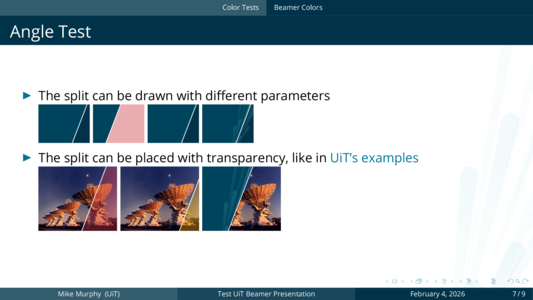
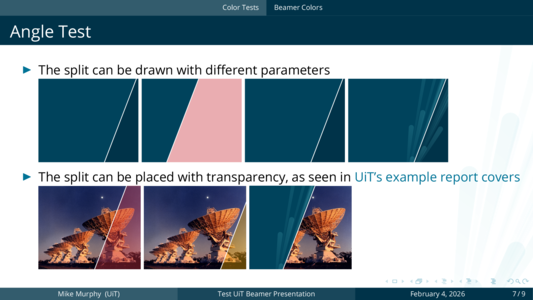
cleanup: Enlarge split examples, update URLs

diff --git a/uitbeamercontent.tex b/uitbeamercontent.tex
@@ -130,25 +130,27 @@
 
 \begin{frame}{Angle Test}
     \begin{itemize}
+        \def\ew{3cm}
+        \def\eh{2.5cm}
         \item The split can be drawn with different parameters
 
-            \tikz{\uitsplitbackground{0,0}{4em, 3em}}
+            \tikz{\uitsplitbackground{0,0}{\ew, \eh}}
             \tikz{\uitsplitbackground[
                     split pos = .25,
                     split right/.append style = {color=UitRed, opacity=.4},
-                ]{0,0}{4em, 3em}}
+                ]{0,0}{\ew, \eh}}
             \tikz{\uitsplitbackground[
                     opacity=.6,
                     line width = 1em,
-                ]{0,0}{4em, 3em}}
-            \tikz{\uitsplitbackground[split rays=true]{0,0}{4em, 3em}}
+                ]{0,0}{\ew, \eh}}
+            \tikz{\uitsplitbackground[split rays=true]{0,0}{\ew, \eh}}
 
-        \item The split can be placed with transparency, like in
-            \href{https://uit.no/ansatte/grafiskprofil\#innhold_631815}{UiT's examples}
+        \item The split can be placed with transparency, as seen in
+            \href{https://uit.no/ansatte/kommunikasjonstips/grafisk/maler/sub?p_document_id=861319}{UiT's example report covers}
 
             \begin{tikzpicture}
                 \node[inner sep=0, outer sep=0] (bg)
-                    {\includegraphics[height=5em]{example-art/csiro-five-antennas-bg.jpg}};
+                    {\includegraphics[height=\eh]{example-art/csiro-five-antennas-bg.jpg}};
                 \uitsplitbackground[
                     split pos = .55,
                     split left/.style = {},
@@ -157,7 +159,7 @@
             \end{tikzpicture}
             \begin{tikzpicture}
                 \node[inner sep=0, outer sep=0] (bg)
-                    {\includegraphics[height=5em]{example-art/csiro-five-antennas-bg.jpg}};
+                    {\includegraphics[height=\eh]{example-art/csiro-five-antennas-bg.jpg}};
                 \uitsplitbackground[
                     split pos = .75,
                     split left/.style = {},
@@ -166,7 +168,7 @@
             \end{tikzpicture}
             \begin{tikzpicture}
                 \node[inner sep=0, outer sep=0] (bg)
-                    {\includegraphics[height=5em]{example-art/csiro-five-antennas-bg.jpg}};
+                    {\includegraphics[height=\eh]{example-art/csiro-five-antennas-bg.jpg}};
                 \uitsplitbackground[
                     split pos=.33,
                     split rays=true,

diff --git a/README.md b/README.md
@@ -9,7 +9,7 @@ It follows the guidelines specified (in Norwegian) on
 UiT's Grafisk profil (Graphic Profile) page,
 specifically the graphic profile introduced in 2019.
 
-<https://uit.no/ansatte/grafiskprofil>
+<https://uit.no/ansatte/kommunikasjonstips/grafisk>
 
 ![Example of UiT beamer title page with photo on the right side](examples/beamer-title-graphic.png "Example title page with photo")
 
